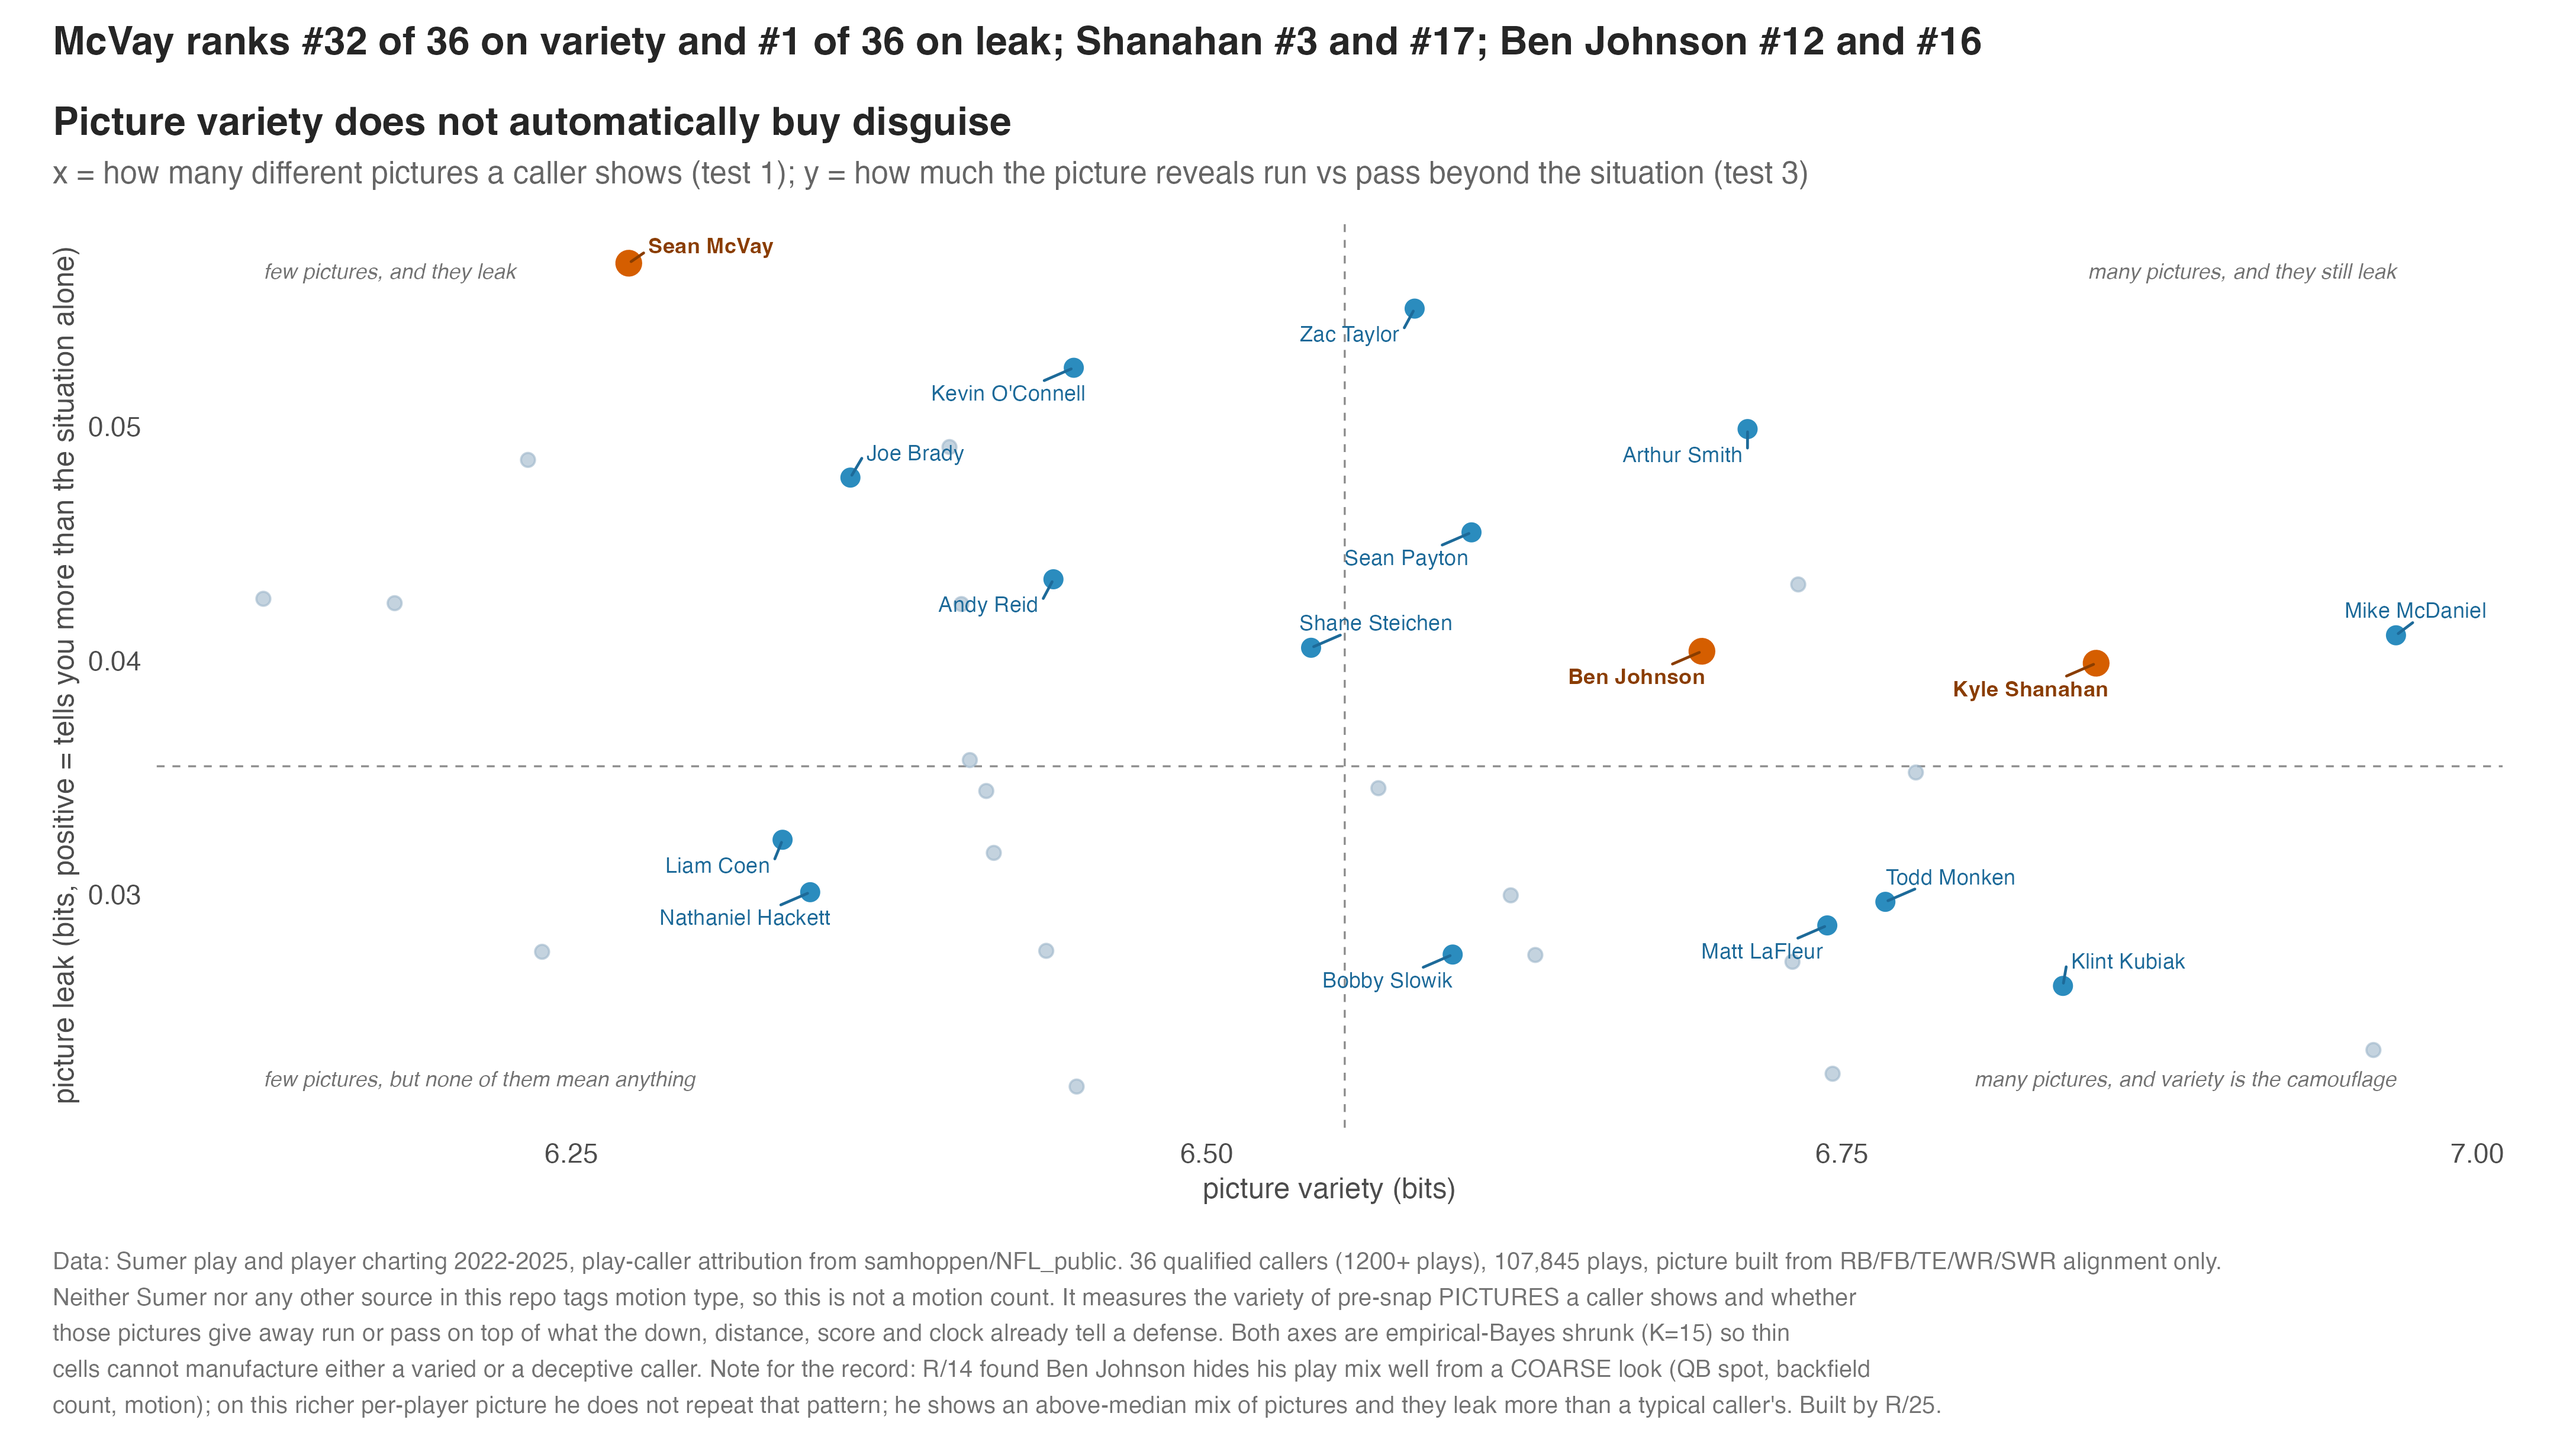
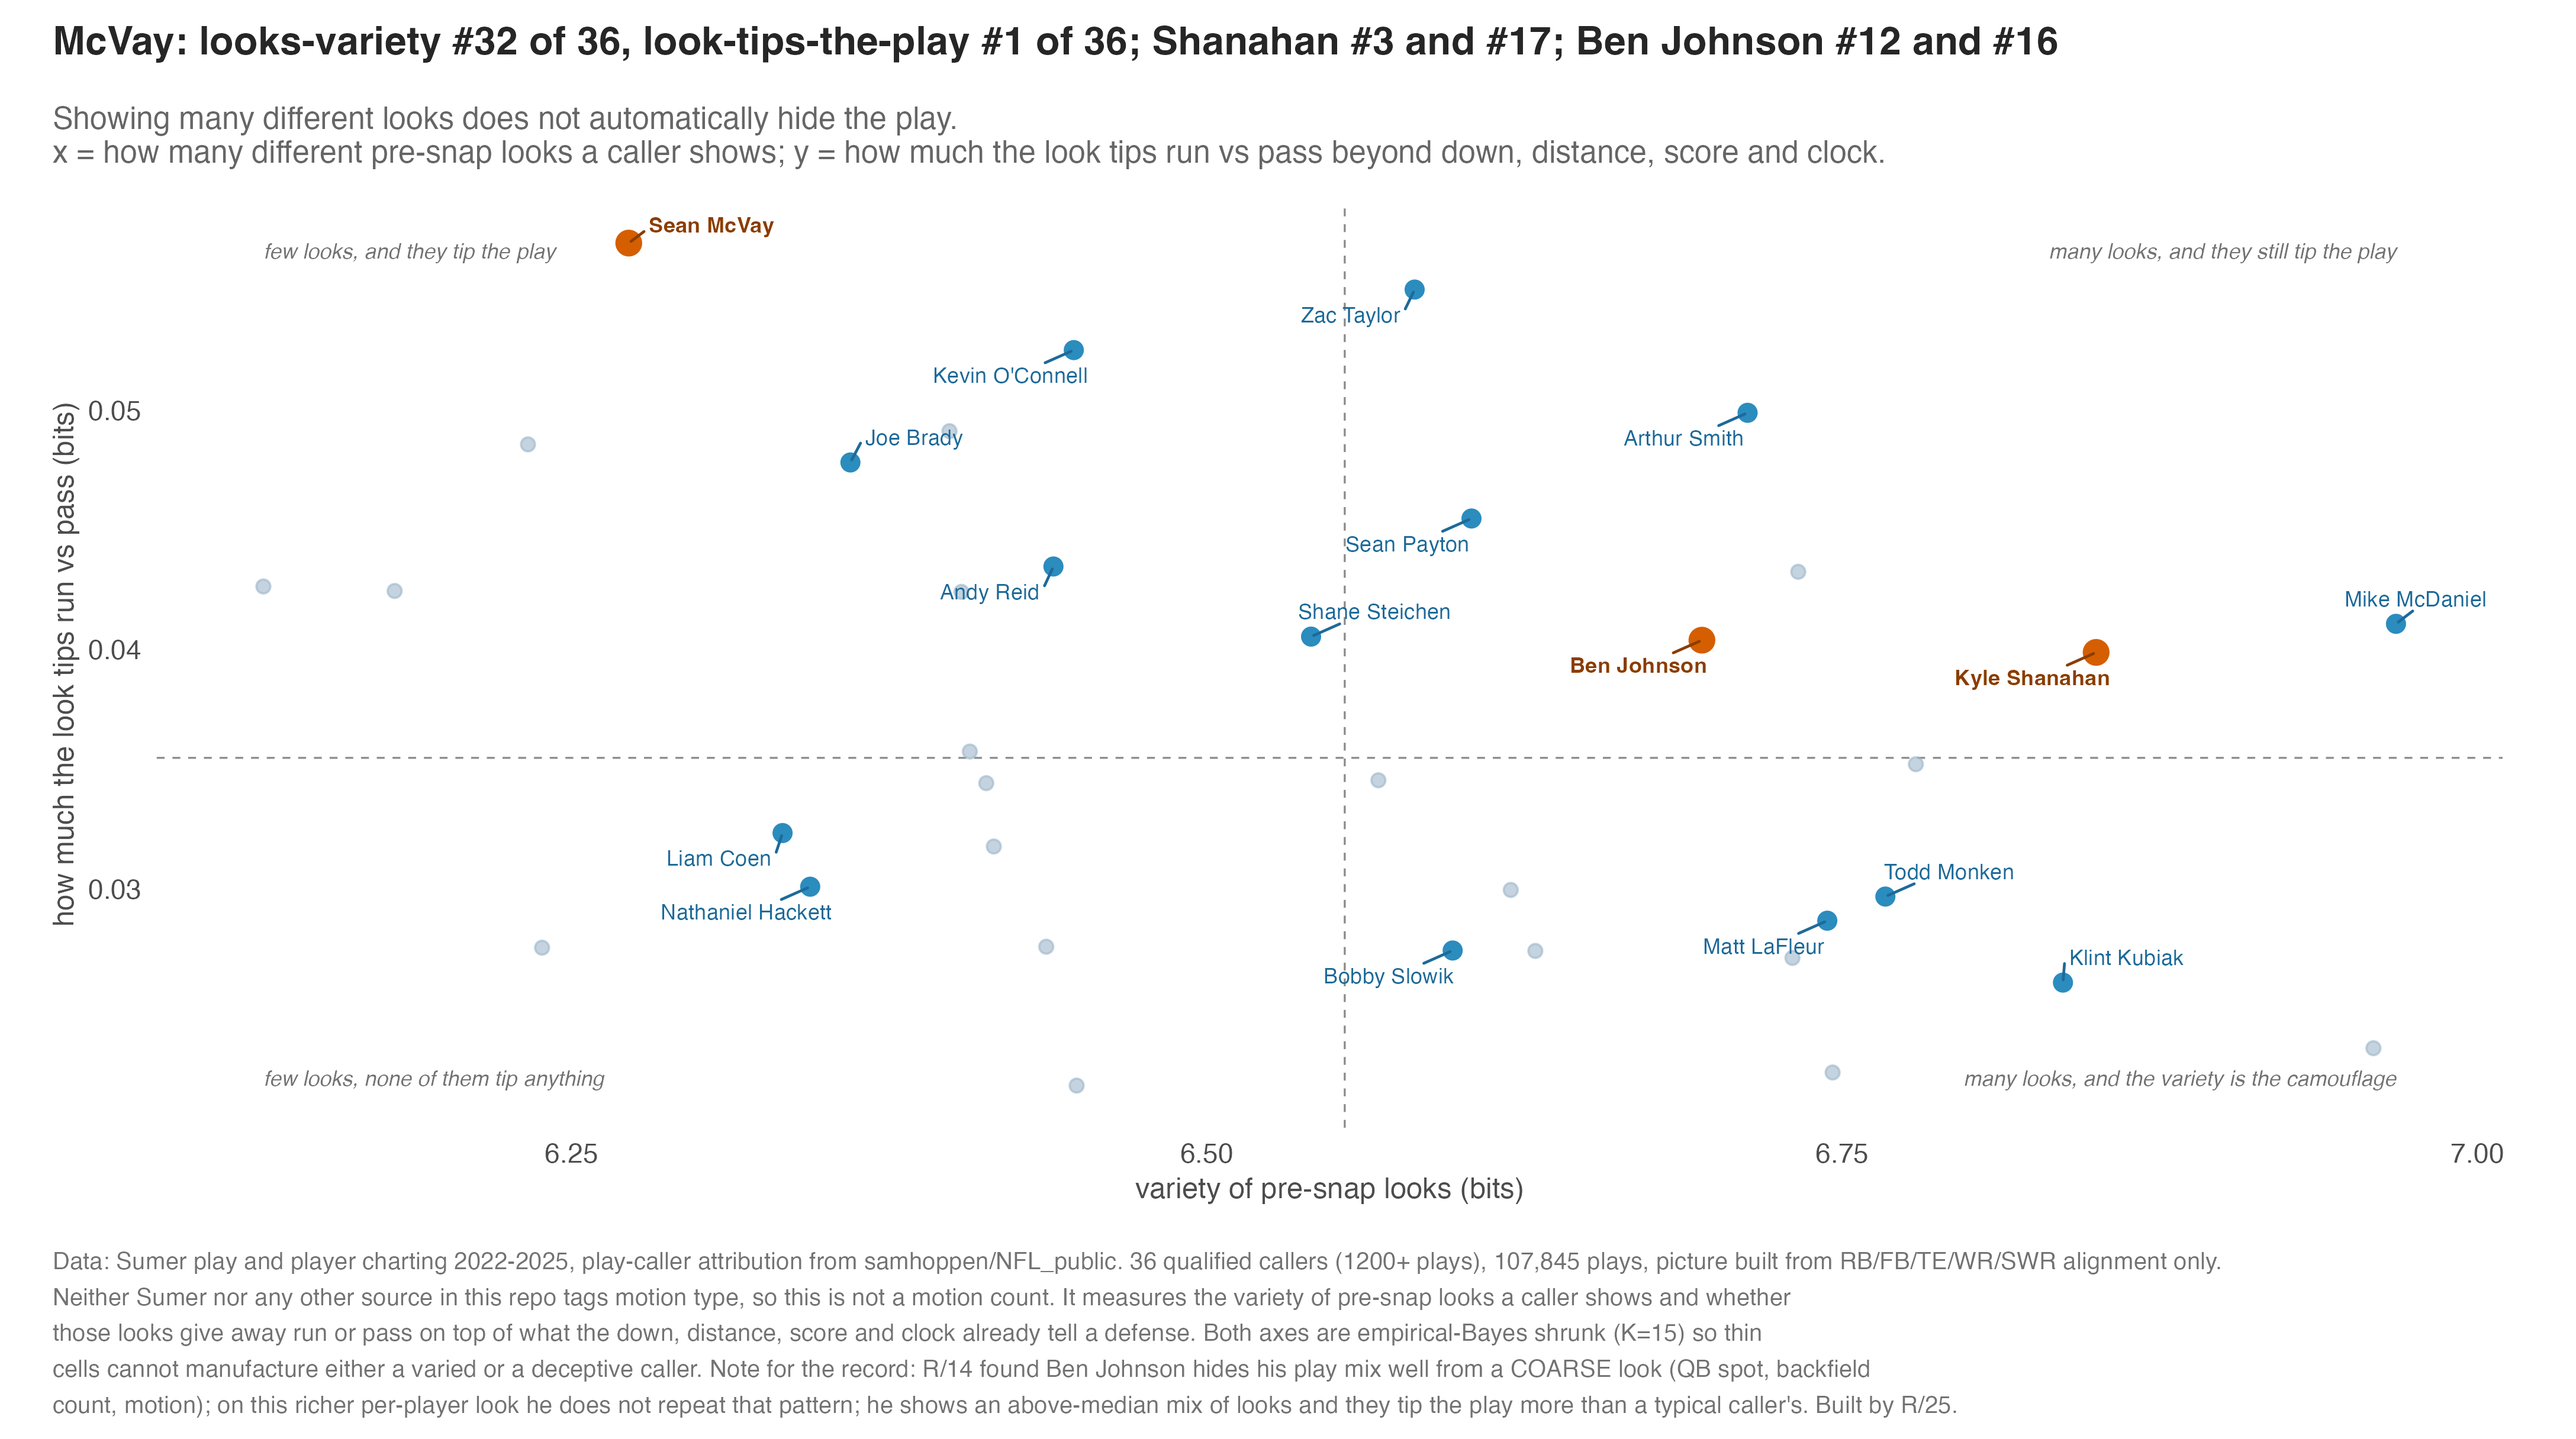
Plain language for the pre-snap measures: 'looks' and 'tips the play', with our-measure-not-Sumer's disclosure
Feedback: the invented 'picture variety / picture leak' terms confused the
reader. Charts re-rendered (also fixed a title/axis collision), card and
outline reworded, and the card now states plainly that the measures are ours
built on Sumer's alignment charting.

diff --git a/docs/index.html b/docs/index.html
@@ -239,19 +239,19 @@
     </div>
 
     <div class="card">
-      <div class="card-head"><span class="t">The pictures, and the movement inside them</span><span class="pill ship">McVay quantified, honestly</span></div>
+      <div class="card-head"><span class="t">The looks, and the movement inside them</span><span class="pill ship">McVay quantified, honestly</span></div>
       <p class="row"><span class="lab">Michael:</span> "Ya the McVay motion and movement stuff is like the next part of my writing so let me know when you have something here thanks"</p>
-      <p class="row found"><span class="lab">Built from Sumer's per-player data, 4.8 million rows, first analysis on it.</span> Nobody's data counts motions, so this measures the closest honest thing: the variety of pre-snap pictures a caller shows (every skill player's alignment, per play) and how much the picture gives away. McVay's result is the surprise that makes his whole reputation make sense. He shows the 32nd-most-varied picture of 36 callers, lives in bunched sets (55% of snaps against a league at 39%), rotates personnel the least of the three names, and his pictures are the leakiest in football, first of 36 at revealing run versus pass beyond the situation. Put that next to the motion card above, where his motion is the one in the league that genuinely scrambles the pre-snap model, and the McVay formula is suddenly coherent: a small set of recurring, individually leaky shapes, with players moving inside them until the leak is bought back. The movement is not many pictures. It is life inside a few.</p>
+      <p class="row found"><span class="lab">Built from Sumer's per-player data, 4.8 million rows, first analysis on it.</span> Nobody's data counts motions, so this measures the closest honest thing: how many different pre-snap looks a caller shows (every skill player's alignment, per play) and how much the look tips the coming play. Plain words on purpose; these are our measures built on Sumer's alignment charting, not Sumer stats. McVay's result is the surprise that makes his whole reputation make sense. He shows the 32nd-most-varied look of 36 callers, lives in bunched sets (55% of snaps against a league at 39%), rotates personnel the least of the three names, and his looks tip the play more than anyone's, first of 36 at revealing run versus pass beyond the situation. Put that next to the motion card above, where his motion is the one in the league that genuinely scrambles the pre-snap model, and the McVay formula is suddenly coherent: a small set of recurring, individually leaky shapes, with players moving inside them until the leak is bought back. The movement is not many looks. It is life inside a few.</p>
       <figure>
-        <img src="figures/presnap_variety.png" alt="Leaderboard of 36 play-callers by pre-snap picture variety with Shanahan near the top, Johnson above median, and McVay near the bottom.">
-        <figcaption>How many different pictures each caller shows, from per-player alignments within down and distance. Built by R/25.</figcaption>
+        <img src="figures/presnap_variety.png" alt="Leaderboard of 36 play-callers by variety of pre-snap looks with Shanahan near the top, Johnson above median, and McVay near the bottom.">
+        <figcaption>How many different looks each caller shows, from per-player alignments within down and distance. Built by R/25.</figcaption>
       </figure>
       <figure>
-        <img src="figures/presnap_lie.png" alt="Two-axis chart of picture variety against picture leak with McVay isolated in the few-pictures-that-leak corner, Shanahan high variety, Johnson above median on both.">
+        <img src="figures/presnap_lie.png" alt="Two-axis chart of look variety against how much the look tips the play, McVay isolated in the few-looks-that-tip corner, Shanahan high variety, Johnson above median on both.">
         <figcaption>Variety against leak, quadrants labeled. McVay sits alone in the corner his reputation least predicts. Built by R/25.</figcaption>
       </figure>
-      <p class="row found"><span class="lab">The other two:</span> Shanahan is the mirror: third-most-varied picture in the league with a middle-of-the-pack leak, deception by menu rather than by motion, which matches his below-median motion effect above. And an honest correction on Johnson: from the coarse look (backfield count, QB spot, motion flag), R/14 found he hides his mix well; on this richer per-player picture he is above median on variety and above median on leak. Different look, different answer, both on the board.</p>
-      <p class="row"><span class="lab">The catch:</span> leak effects are real but small in absolute bits, in line with every tell measure on this board, and the no-motion-data disclosure applies throughout: this quantifies the pictures, not the motion itself.</p>
+      <p class="row found"><span class="lab">The other two:</span> Shanahan is the mirror: third-most-varied look in the league, middle of the pack at tipping the play, deception by menu rather than by motion, which matches his below-median motion effect above. And an honest correction on Johnson: from the coarse look (backfield count, QB spot, motion flag), R/14 found he hides his mix well; on this richer per-player look he is above median on variety and above median at tipping the play. Different look, different answer, both on the board.</p>
+      <p class="row"><span class="lab">The catch:</span> leak effects are real but small in absolute bits, in line with every tell measure on this board, and the no-motion-data disclosure applies throughout: this quantifies the looks, not the motion itself.</p>
     </div>
 
     <div class="card">

diff --git a/docs/outline.html b/docs/outline.html
@@ -35,9 +35,9 @@ footer{border-top:1px solid var(--line);margin-top:60px;padding-top:18px;font-si
 <h2>Setup: Defense vs. Offense &mdash; McVay vs. MacDonald</h2>
 <section><h3>McVay (offense)</h3><figure><img src="figures/factory/mcvay_reinvention.png" alt="Sean McVay 11 and 13 personnel usage by season against the league"><figcaption>Led the league in 11 personnel in 2022 and 2023, then led it in 13 personnel in 2025.</figcaption></figure>
 <figure><img src="figures/market_2025.png" alt="Wins above market expectation by team in 2025"><figcaption>Wins above what the closing spread expected, 2025.</figcaption></figure>
-<p class="note">For the movement section: nobody&rsquo;s data counts motions (checked Sumer&rsquo;s full schema; FTN flags presence only), so the closest honest quantification is the variety of pre-snap <b>pictures</b> a caller shows, built from every skill player&rsquo;s alignment across 4.8 million player-plays. McVay&rsquo;s answer is the surprise that organizes the whole segment: <b>32nd of 36</b> in picture variety, 55% bunched sets against a league at 39%, and the <b>leakiest pictures in football</b> (1st of 36 at revealing run vs pass beyond the situation). Yet his motion is the one in the league that genuinely scrambles a pre-snap model (6th of 37, interval clear of zero). The formula: a few recurring, individually leaky shapes, with players moving inside them until the leak is bought back. The movement is not many pictures; it is life inside a few. Shanahan is the mirror: 3rd of 36 in variety, mid-pack leak, below-median motion effect, deception by menu instead.</p>
-<figure><img src="figures/presnap_lie.png" alt="Picture variety against picture leak by caller, McVay isolated in the few-and-leaky corner, Shanahan high-variety"><figcaption>Variety against leak. McVay sits alone in the corner his reputation least predicts. Built by R/25.</figcaption></figure>
-<figure><img src="figures/presnap_variety.png" alt="Pre-snap picture variety leaderboard with the three names marked"><figcaption>How many different pictures each caller shows. Built by R/25.</figcaption></figure></section>
+<p class="note">For the movement section: nobody&rsquo;s data counts motions (checked Sumer&rsquo;s full schema; FTN flags presence only), so the closest honest quantification, and it is OUR measure built on Sumer&rsquo;s alignment charting rather than a Sumer stat: how many different <b>pre-snap looks</b> a caller shows, from every skill player&rsquo;s alignment across 4.8 million player-plays, and how much the look <b>tips run vs pass</b> beyond down, distance, score and clock. McVay&rsquo;s answer organizes the whole segment: <b>32nd of 36</b> in look variety, 55% bunched sets against a league at 39%, and his looks tip the play <b>more than anyone&rsquo;s</b> (1st of 36). Yet his motion is the one in the league that genuinely scrambles a pre-snap model (6th of 37, interval clear of zero). The formula: a few recurring shapes that would tip the play on their own, with players moving inside them until the tell is bought back. The movement is not many looks; it is life inside a few. Shanahan is the mirror: 3rd of 36 in variety, mid-pack at tipping, below-median motion effect, deception by menu instead.</p>
+<figure><img src="figures/presnap_lie.png" alt="Variety of pre-snap looks against how much the look tips the play, McVay isolated in the few-and-tipping corner, Shanahan high-variety"><figcaption>Variety against leak. McVay sits alone in the corner his reputation least predicts. Built by R/25.</figcaption></figure>
+<figure><img src="figures/presnap_variety.png" alt="Variety of pre-snap looks, leaderboard with the three names marked"><figcaption>How many different looks each caller shows. Built by R/25.</figcaption></figure></section>
 <section><h3>MacDonald (defense)</h3><figure><img src="figures/factory/macdonald_clock.png" alt="Macdonald defensive EPA allowed year one vs year two at Baltimore and Seattle"><figcaption>Ordinary in year one, second in the league in year two. Twice.</figcaption></figure>
 <figure><img src="figures/factory/defense_leaders.png" alt="Career EPA per play allowed by defensive play-caller"><figcaption>Career EPA per play allowed, minimum 1,500 charted plays.</figcaption></figure>
 <p class="note">The HOW, from the never-used pressure flags: Macdonald ranks <b>#2 of 41</b> coordinators at manufacturing <b>unblocked rushers</b> (above what his situations predict) while ranking 24th at winning one-on-ones and 26th in blitz rate. A free rusher costs the offense about <b>3x</b> a won rush (-0.50 vs -0.16 EPA), and a won block only converts to pressure 62% of the time anyway. His pressure is scheme, not volume and not talent. Honest limit: free-rusher manufacturing does not confirm as a league-wide repeatable trait (r = 0.02), though his own rate has risen all four seasons.</p>
